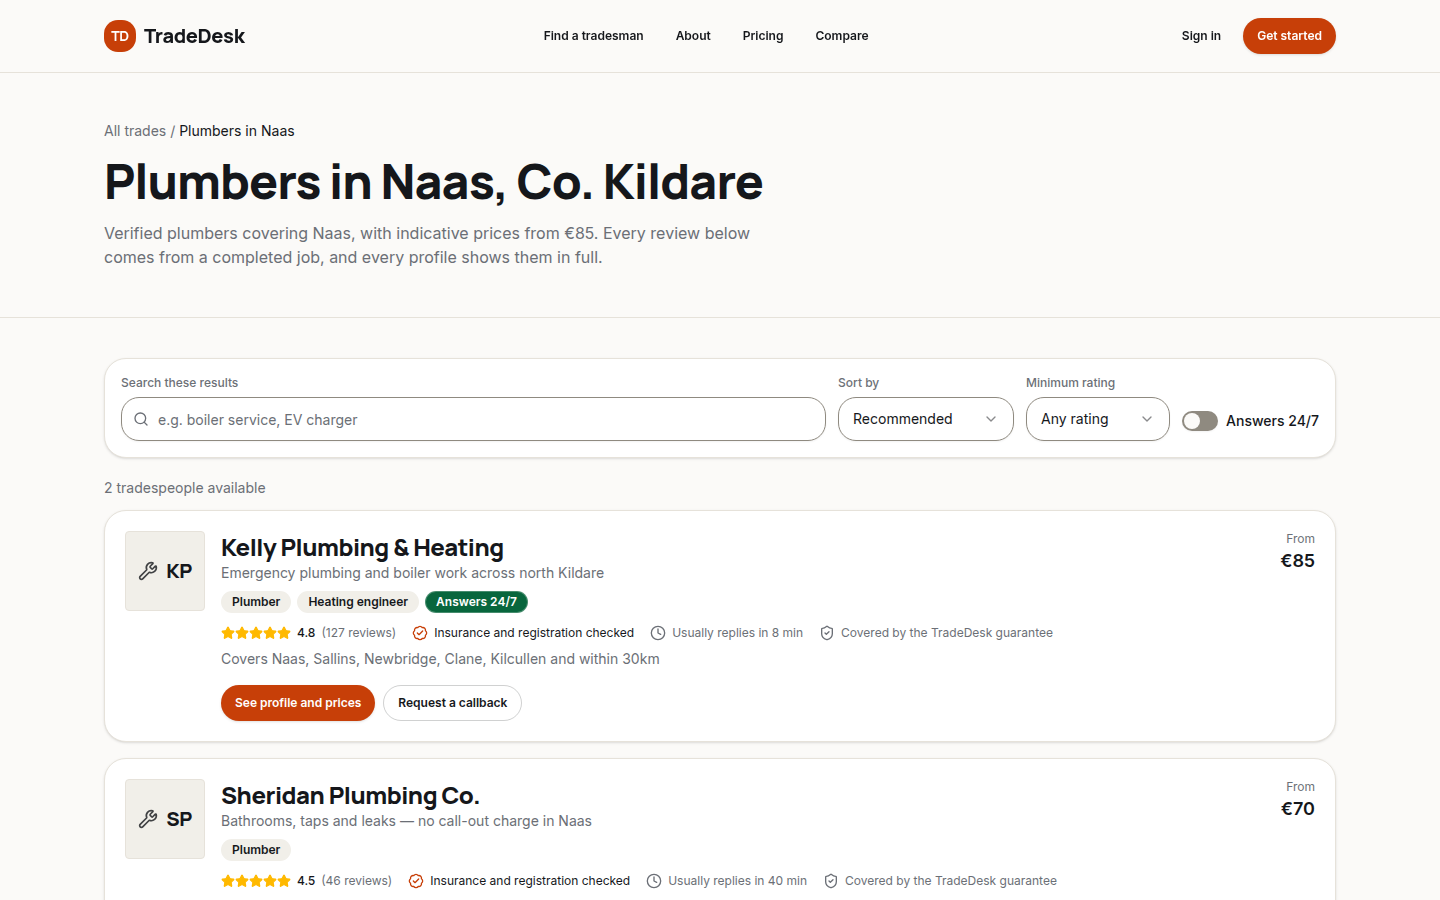
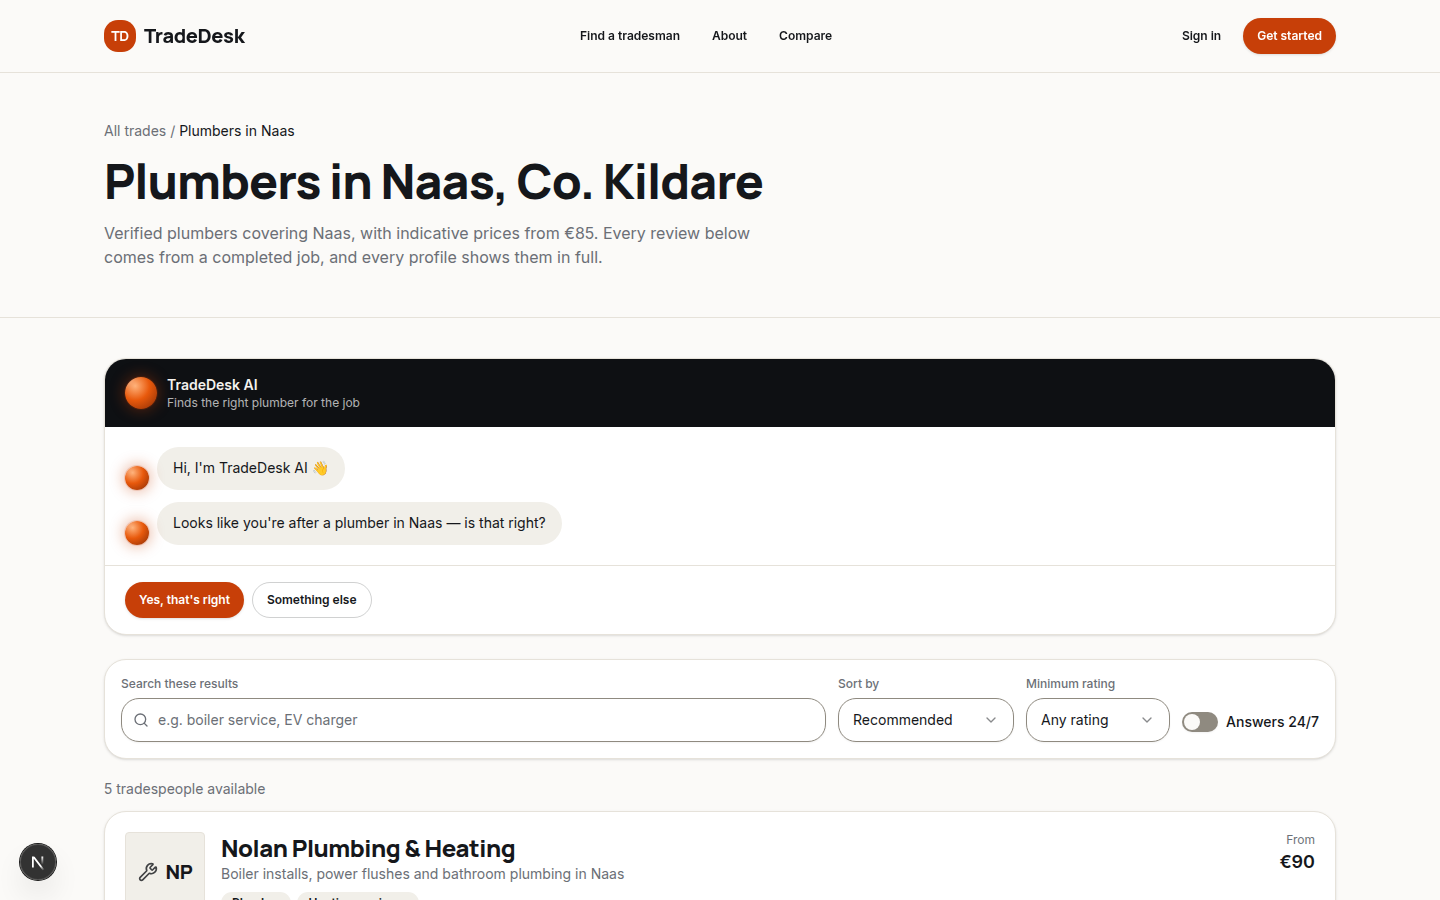
Give How it works an olive background and real per-step screenshots
Sits on the same olive gradient as AudienceSplit's business panel
(linear-gradient(160deg, #6f6535, #3f3a20)) instead of the plain page
background, and each step now carries an actual cropped screenshot of
that real screen (public/images/how-it-works/) behind a small
three-dot browser-chrome strip, rather than just text: the chat asking
what's wrong, the recommendation results, the confirm form, and the
fallback tradesman's own profile for "we've already asked the next".

Also alternates every other ListingCard (search results and the
chat's own recommendations both use this component) onto that same
olive gradient, so a long results list doesn't read as one flat wall
of identical white cards.

Removes the Pricing section from the homepage (kept the component and
data, just unused from here — say if you want it back on a dedicated
page) and the now-dead "Pricing" links it left in the header and
footer nav.

Claude-Session: https://claude.ai/code/session_01D2AdKVX9wc36S7nrZDT2Cg

diff --git a/tradedesk-ai/components/marketing/how-it-works.tsx b/tradedesk-ai/components/marketing/how-it-works.tsx
@@ -1,31 +1,83 @@
 import { howItWorksSteps } from "@/lib/marketing";
 
+/**
+ * A tiny fake browser chrome above each step's screenshot — three dots, no
+ * address bar, just enough that a cropped screenshot reads as "a page of the
+ * product", not a stray photo.
+ *
+ * A plain `<img>`, not `next/image`: these are small, already-cropped local
+ * screenshots (see `public/images/how-it-works/`), not photos that need
+ * responsive srcset/format conversion — and going through `next/image`'s
+ * optimizer here hit a resize-cache inconsistency in dev.
+ */
+function BrowserFrame({ src }: { src: string }) {
+  return (
+    <div className="overflow-hidden rounded-t-2xl border-b border-white/10 bg-black/20">
+      <div className="flex items-center gap-1.5 px-3 py-2">
+        <span className="size-2 rounded-full bg-white/30" />
+        <span className="size-2 rounded-full bg-white/30" />
+        <span className="size-2 rounded-full bg-white/30" />
+      </div>
+      <div className="relative aspect-4/3 bg-white">
+        {/* eslint-disable-next-line @next/next/no-img-element */}
+        <img
+          src={src}
+          alt=""
+          aria-hidden
+          className="absolute inset-0 size-full object-cover object-top"
+        />
+      </div>
+    </div>
+  );
+}
+
+/**
+ * Sits on the same olive-gradient background as `AudienceSplit`'s business
+ * panel (`linear-gradient(160deg, #6f6535, #3f3a20)`), set via inline style
+ * for the same reason that panel does: an inline style wins outright over
+ * `.band-dark`'s own near-black `background` rule regardless of Tailwind's
+ * utility-vs-component layer order. Because that gradient is lighter than
+ * `.band-dark` is tuned for, text and the step tiles below override the
+ * token-driven colours directly (`text-white/75`, `bg-white/10`) rather than
+ * relying on the cascade — same reasoning as that panel's own comment.
+ */
 export function HowItWorks() {
   return (
     <section
       id="how-it-works"
-      className="mx-auto w-full max-w-7xl px-4 py-16 sm:px-6 md:py-24"
+      className="band-dark"
+      style={{ backgroundImage: "linear-gradient(160deg, #6f6535, #3f3a20)" }}
     >
-      <p className="kicker">For homeowners</p>
-      <h2 className="display mt-3 max-w-3xl text-3xl sm:text-4xl">
-        The tradesman finder that never leaves you hanging
-      </h2>
-      <p className="text-muted-foreground mt-3 max-w-xl">
-        No calling round, no voicemail, no wondering if anyone&apos;s coming.
-        Tell us the job once — we do the rest.
-      </p>
+      <div className="mx-auto w-full max-w-7xl px-4 py-16 sm:px-6 md:py-24">
+        <p className="text-xs font-semibold tracking-[0.12em] text-white/90 uppercase">
+          For homeowners
+        </p>
+        <h2 className="display mt-3 max-w-3xl text-3xl sm:text-4xl">
+          The tradesman finder that never leaves you hanging
+        </h2>
+        <p className="mt-3 max-w-xl text-white/75">
+          No calling round, no voicemail, no wondering if anyone&apos;s coming.
+          Tell us the job once — we do the rest.
+        </p>
 
-      <ol className="mt-10 grid gap-6 md:grid-cols-2 lg:grid-cols-4">
-        {howItWorksSteps.map((step, index) => (
-          <li key={step.title} className="border-t-2 border-primary/20 pt-4">
-            <span className="bg-primary text-primary-foreground flex size-8 items-center justify-center rounded-full text-sm font-bold">
-              {index + 1}
-            </span>
-            <h3 className="mt-3 font-semibold">{step.title}</h3>
-            <p className="text-muted-foreground mt-1.5 text-sm">{step.body}</p>
-          </li>
-        ))}
-      </ol>
+        <ol className="mt-10 grid gap-6 md:grid-cols-2 lg:grid-cols-4">
+          {howItWorksSteps.map((step, index) => (
+            <li
+              key={step.title}
+              className="overflow-hidden rounded-2xl border border-white/15 bg-white/10"
+            >
+              <BrowserFrame src={step.image} />
+              <div className="p-5">
+                <span className="bg-primary text-primary-foreground flex size-8 items-center justify-center rounded-full text-sm font-bold">
+                  {index + 1}
+                </span>
+                <h3 className="mt-3 font-semibold text-white">{step.title}</h3>
+                <p className="mt-1.5 text-sm text-white/75">{step.body}</p>
+              </div>
+            </li>
+          ))}
+        </ol>
+      </div>
     </section>
   );
 }

diff --git a/tradedesk-ai/components/marketplace/listing-card.tsx b/tradedesk-ai/components/marketplace/listing-card.tsx
@@ -7,12 +7,14 @@ import { Button } from "@/components/ui/button";
 import { Card, CardContent } from "@/components/ui/card";
 import { formatEuro } from "@/lib/format";
 import { tradeTypeLabels } from "@/lib/labels";
+import { cn } from "@/lib/utils";
 import type { MarketplaceListing } from "@/lib/api";
 
 export function ListingCard({
   listing,
   icon,
   hrefSuffix = "",
+  dark = false,
 }: {
   listing: MarketplaceListing;
   /** lucide icon name for the listing's first category. */
@@ -23,9 +25,24 @@ export function ListingCard({
    * contact form on the other end can pre-fill itself.
    */
   hrefSuffix?: string;
+  /**
+   * Alternates every other card onto the same olive-gradient panel used for
+   * the business side of `AudienceSplit` — `.band-dark`'s token overrides
+   * recolour the Card, Badge and TrustBlock automatically, so only the
+   * background itself (this gradient) and the primary button (switched to
+   * the white "invert" variant, same as that panel) need to change here.
+   */
+  dark?: boolean;
 }) {
   return (
-    <Card className="py-5">
+    <Card
+      className={cn("py-5", dark && "band-dark")}
+      style={
+        dark
+          ? { backgroundImage: "linear-gradient(160deg, #6f6535, #3f3a20)" }
+          : undefined
+      }
+    >
       <CardContent className="flex flex-col gap-4 px-5 sm:flex-row">
         <PhotoTile
           name={listing.business_name}
@@ -92,7 +109,7 @@ export function ListingCard({
           </p>
 
           <div className="mt-4 flex flex-wrap gap-2">
-            <Button asChild size="sm">
+            <Button asChild size="sm" variant={dark ? "invert" : "default"}>
               <Link href={`/pro/${listing.slug}${hrefSuffix}`}>
                 See profile and prices
               </Link>

diff --git a/tradedesk-ai/lib/marketing.ts b/tradedesk-ai/lib/marketing.ts
@@ -148,24 +148,29 @@ export const comparisonRows: ComparisonRow[] = [
  * finding a tradesman, not the tradesman being found. Every step describes
  * a real, shipped part of the "find a tradesman" chat and its match-request
  * flow (see `components/marketplace/find-tradesman-chat.tsx` and
- * `lib/api/match-requests.ts`), not aspirational copy.
+ * `lib/api/match-requests.ts`), not aspirational copy — and each `image` is
+ * an actual screenshot of that real screen, not stock/placeholder art.
  */
 export const howItWorksSteps = [
   {
     title: "Tell us what's wrong",
     body: "A leaking tap, a broken socket, a boiler on the blink — describe it in your own words, with your Eircode and when suits you. No forms, no jargon, no guessing a category.",
+    image: "/images/how-it-works/step-1-tell-us.png",
   },
   {
     title: "We match you to the right tradesman",
     body: "Not just whoever's nearest. We weigh the job against real reviews, response times and who actually does this kind of work, and recommend verified tradespeople best fit for it.",
+    image: "/images/how-it-works/step-2-match.png",
   },
   {
     title: "Confirm your pick, hear back fast",
     body: "Send your details straight to the tradesman you choose. No five phone calls, no leaving your number and hoping — most reply within minutes on WhatsApp or SMS.",
+    image: "/images/how-it-works/step-3-confirm.png",
   },
   {
     title: "Can't make it? We've already asked the next",
     body: "If your first choice isn't free, the job's automatically offered to the next best match — you'll hear who's coming instead, never just silence.",
+    image: "/images/how-it-works/step-4-next.png",
   },
 ];
 

diff --git a/tradedesk-ai/app/page.tsx b/tradedesk-ai/app/page.tsx
@@ -4,7 +4,6 @@ import { CtaBand } from "@/components/marketing/cta-band";
 import { Faq } from "@/components/marketing/faq";
 import { Hero } from "@/components/marketing/hero";
 import { HowItWorks } from "@/components/marketing/how-it-works";
-import { Pricing } from "@/components/marketing/pricing";
 import { Reviews } from "@/components/marketing/reviews";
 import { TrustStrip } from "@/components/marketing/trust-strip";
 import { SiteFooter } from "@/components/site/site-footer";
@@ -26,7 +25,6 @@ export default async function HomePage() {
         <Reviews reviews={reviews} />
         <HowItWorks />
         <CostComparison />
-        <Pricing />
         <Faq />
         <CtaBand />
       </main>

diff --git a/tradedesk-ai/components/marketplace/find-tradesman-chat.tsx b/tradedesk-ai/components/marketplace/find-tradesman-chat.tsx
@@ -299,12 +299,13 @@ export function FindTradesmanChat({
               </p>
               {results.length > 0 ? (
                 <ul className="space-y-3">
-                  {results.map((listing) => (
+                  {results.map((listing, index) => (
                     <li key={listing.slug}>
                       <ListingCard
                         listing={listing}
                         icon={iconForCategory(listing.categories, categories)}
                         hrefSuffix={buildPrefillSuffix(listing.slug)}
+                        dark={index % 2 === 1}
                       />
                     </li>
                   ))}

diff --git a/tradedesk-ai/components/marketplace/search-results.tsx b/tradedesk-ai/components/marketplace/search-results.tsx
@@ -158,11 +158,12 @@ export function SearchResults({
             available
           </p>
           <ul className="space-y-4">
-            {data.map((listing) => (
+            {data.map((listing, index) => (
               <li key={listing.slug}>
                 <ListingCard
                   listing={listing}
                   icon={iconForCategory(listing.categories, categories)}
+                  dark={index % 2 === 1}
                 />
               </li>
             ))}

diff --git a/tradedesk-ai/components/site/site-header.tsx b/tradedesk-ai/components/site/site-header.tsx
@@ -20,7 +20,6 @@ import { cn } from "@/lib/utils";
 const navLinks = [
   { href: "/find", label: "Find a tradesman" },
   { href: "/about", label: "About" },
-  { href: "/#pricing", label: "Pricing" },
   { href: "/#compare", label: "Compare" },
 ];
 

diff --git a/tradedesk-ai/components/site/site-footer.tsx b/tradedesk-ai/components/site/site-footer.tsx
@@ -11,7 +11,6 @@ const homeownerLinks = [
 
 const tradeLinks = [
   { href: "/#compare", label: "Cost of a missed call" },
-  { href: "/#pricing", label: "Pricing" },
   { href: "/signup", label: "Create an account" },
 ];
 

diff --git a/tradedesk-ai/docs/VISUAL_TOUR.md b/tradedesk-ai/docs/VISUAL_TOUR.md
@@ -60,6 +60,8 @@ Real, attributed reviews pulled via [`getFeaturedReviews()`](../lib/api/marketpl
 
 Four steps written for the homeowner, not the tradesman: describe the job, get matched to a verified tradesperson (not just whoever's nearest), confirm and hear back fast, and — if that tradesman can't take it — the job's automatically offered to the next best match instead of leaving the homeowner stuck. Every step names a real, shipped part of the "find a tradesman" chat and its match-request/fallback flow (see the Marketplace section below and `docs/api-contract.md`'s "Match requests" section), not aspirational copy. The footer's "I am a tradesman" column no longer links here, since this section stopped being about them; it previously did (`/#how-it-works`).
 
+Sits on the same olive-gradient background as `AudienceSplit`'s business panel (`linear-gradient(160deg, #6f6535, #3f3a20)`, applied inline for the same reason that panel does — see its own section above), with each step's tile carrying an actual cropped screenshot of that real screen (`public/images/how-it-works/`, a plain `<img>` rather than `next/image` — small local files that don't need responsive optimisation, and the optimizer's dev resize cache proved unreliable here) behind a small three-dot "browser chrome" strip. Because the background is lighter than `.band-dark` is tuned for, both the step tiles (`bg-white/10` rather than the token-driven `bg-card`) and their text (`text-white`/`text-white/75` rather than `text-foreground`/`text-muted-foreground`) override the cascade directly, same reasoning as that panel's own comment.
+
 ### Cost comparison
 
 ![Cost comparison](screenshots/cost-comparison.png)
@@ -67,12 +69,6 @@ Four steps written for the homeowner, not the tradesman: describe the job, get m
 **File:** [`components/marketing/cost-comparison.tsx`](../components/marketing/cost-comparison.tsx)
 
 A dark `.band-dark` section (defined in [`app/globals.css`](../app/globals.css)) showing the cost of a missed call against TradeDesk AI.
-
-### Pricing
-
-![Pricing](screenshots/pricing.png)
-
-**File:** [`components/marketing/pricing.tsx`](../components/marketing/pricing.tsx)
 
 ### FAQ
 
@@ -132,7 +128,7 @@ Reuses [`components/marketing/category-grid.tsx`](../components/marketing/catego
 
 ![Find — results](screenshots/find-results.png)
 
-Filter bar plus the results list, rendered by [`components/marketplace/search-results.tsx`](../components/marketplace/search-results.tsx) and [`components/marketplace/listing-card.tsx`](../components/marketplace/listing-card.tsx) per profile.
+Filter bar plus the results list, rendered by [`components/marketplace/search-results.tsx`](../components/marketplace/search-results.tsx) and [`components/marketplace/listing-card.tsx`](../components/marketplace/listing-card.tsx) per profile. Every other card (`dark={index % 2 === 1}`) sits on the same olive gradient as `AudienceSplit`'s business panel instead of the plain white card — a zebra stripe so a long list doesn't read as one flat wall of identical cards. `.band-dark`'s token cascade recolours the card, its badges and `TrustBlock` text automatically; the "See profile and prices" button switches to the white `invert` variant on the dark cards, same as that panel's own CTA.
 
 ### Find-a-tradesman chat
 
@@ -150,7 +146,7 @@ Each answer appears as its own fully-rounded bubble: the homeowner's in a diagon
 
 ![Chat — recommendations](screenshots/find-chat-results.png)
 
-On "Find my plumbers", [`recommendTradespeople()`](../lib/api/marketplace.ts) scores every listing in this category/location — keyword overlap between the typed issue and each listing's services, plus rating, verification, review volume, and an urgency bonus for 24/7 or fast-response businesses when "Today"/"Tomorrow" was picked — and returns the top 5, reusing the same `ListingCard` the plain filtered list uses. Once the chat has an answer, `FindAndBrowse` stops rendering the plain `SearchResults` list entirely — the two are mutually exclusive, not stacked — until "Start over" resets the chat. It's a heuristic over mock data, explicitly not real language understanding; see the `recommendTradespeople` section of [`docs/api-contract.md`](api-contract.md) for how it's meant to be replaced by a real matching/AI service later without any component changing.
+On "Find my plumbers", [`recommendTradespeople()`](../lib/api/marketplace.ts) scores every listing in this category/location — keyword overlap between the typed issue and each listing's services, plus rating, verification, review volume, and an urgency bonus for 24/7 or fast-response businesses when "Today"/"Tomorrow" was picked — and returns the top 5, reusing the same `ListingCard` the plain filtered list uses (olive-gradient alternation included). Once the chat has an answer, `FindAndBrowse` stops rendering the plain `SearchResults` list entirely — the two are mutually exclusive, not stacked — until "Start over" resets the chat. It's a heuristic over mock data, explicitly not real language understanding; see the `recommendTradespeople` section of [`docs/api-contract.md`](api-contract.md) for how it's meant to be replaced by a real matching/AI service later without any component changing.
 
 ### Public tradesman profile
 

diff --git a/tradedesk-ai/README.md b/tradedesk-ai/README.md
@@ -44,7 +44,7 @@ Every row links to its screenshot(s) and source file in the [visual tour](docs/V
 
 | Route                                                                     | What it is                                                                                                                                                            |
 | ------------------------------------------------------------------------- | --------------------------------------------------------------------------------------------------------------------------------------------------------------------- |
-| [`/`](docs/VISUAL_TOUR.md#marketing-site)                                 | Marketing homepage: dual "I need a tradesman" / "I am a tradesman" split, real reviews, cost-of-a-missed-call comparison, visible tiered pricing, FAQ                 |
+| [`/`](docs/VISUAL_TOUR.md#marketing-site)                                 | Marketing homepage: dual "I need a tradesman" / "I am a tradesman" split, real reviews, cost-of-a-missed-call comparison, FAQ                                         |
 | [`/about`](docs/VISUAL_TOUR.md#about-page)                                | Company mission, stats, story and team                                                                                                                                |
 | [`/login`, `/signup`](docs/VISUAL_TOUR.md#sign-in--sign-up)               | Sign-in and sign-up — demo auth today, Supabase Auth UI once the project exists                                                                                       |
 | [`/dashboard`](docs/VISUAL_TOUR.md#overview)                              | Overview: week counters and the "needs you" queue (failed calls, unsent confirmations, untouched leads)                                                               |
